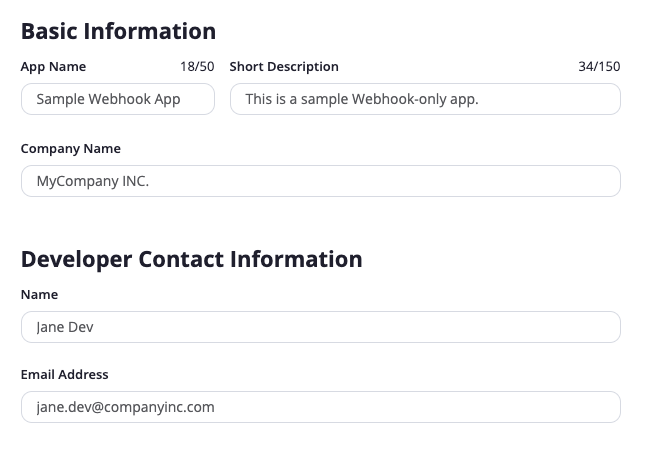
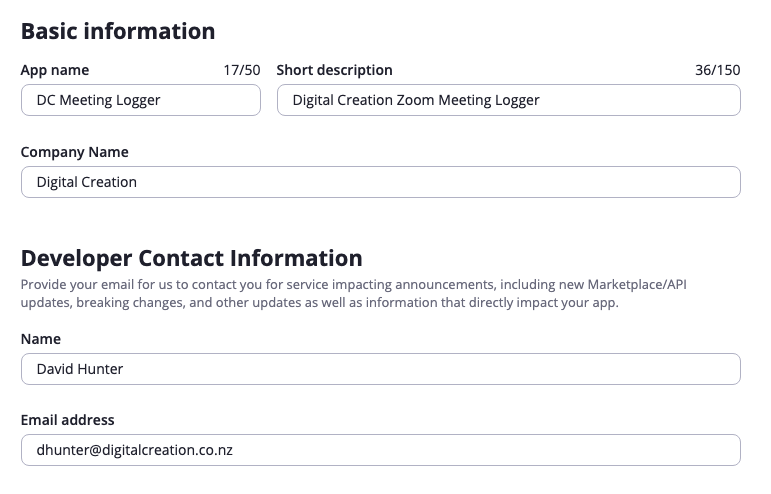
Update readme with new contact and basic zoom app info

diff --git a/docs/README.md b/docs/README.md
@@ -28,8 +28,6 @@ App Name: dc-zoom-meeting-logger
 
 Information: In this page, you must provide some basic information about your app including a short description about your app, your company’s name and your contact information.
 
-<img src="zoom_basic_info.png" alt="alt text" width="400"/>
-
 <img src="zoom_contact_info.png" alt="alt text" width="400"/>
 
 ## Set App Features
